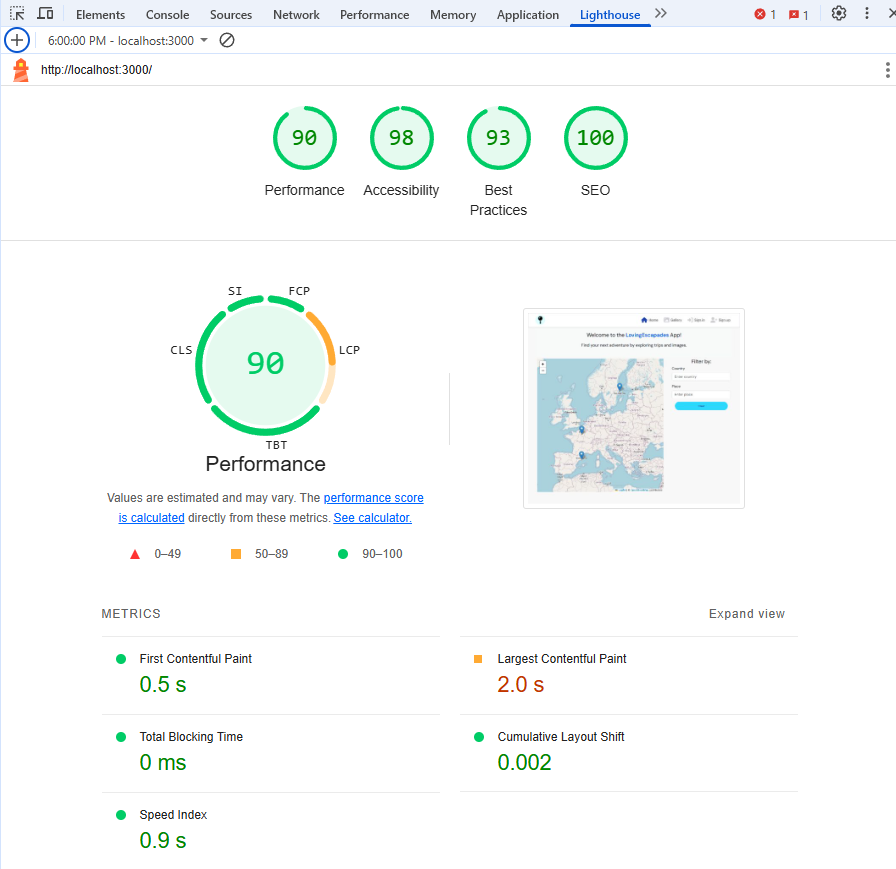
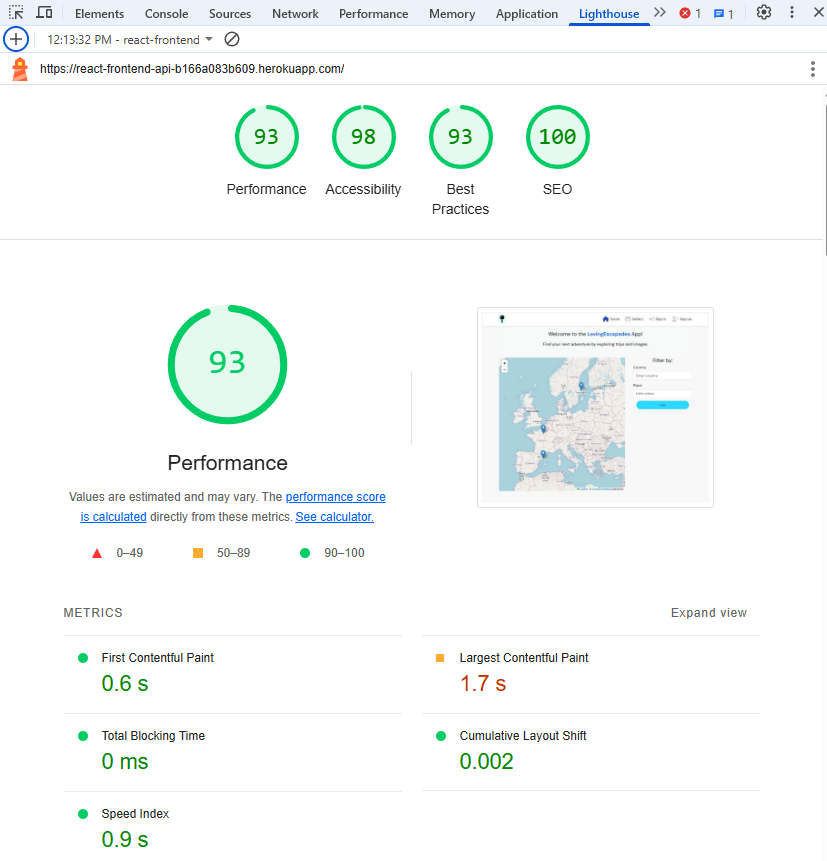
Doc: Update Readme Lighthouse validator

diff --git a/README.md b/README.md
@@ -1,4 +1,4 @@
-# ***<center><font color="red"> LovinEscapades-API</font>***: The Ultimate Trip Tracking Tool!</center>
+# ***<center><font color="blue"> LovinEscapades-API</font>***: The Ultimate Trip Tracking Tool!</center>
 ## <center> **A React - Django DRF web app** </center>
 
 ### **Table of content:**
@@ -356,12 +356,12 @@ Each feature was tested systematically following these steps:
 #### Lighthouse
 The Lighthouse validator, configured for desktop applications, was used to evaluate the app's overall performance. The lowest score of 90 for Performance was primarily due to the load delay of the Leaflet tile.
 
-#### <center> **Lighthouse validator: Home page**</center>
+#### <center> **Lighthouse validator: Home page (unauth users)**</center>
 <p align="center"><img src="src/assets/doc/lighthouse_home.png" alt="lighthouse validator home page"></p>
 
 <br>
 
-#### <center> **Lighthouse validator: Gallery page**</center>
+#### <center> **Lighthouse validator: Gallery page (authenticated users)**</center>
 <p align="center"><img src="src/assets/doc/lighthouse_gallery.png" alt="lighthouse validator gallery page"></p>
 <br>
 
@@ -451,6 +451,6 @@ I would like to extend my gratitude to my mentor, Luke Buchanan, for his support
 
 ## Documentation version
 
-Last updated: February 8, 2025
+Last updated: March 20, 2025
 
 [*Back to top*](#)
